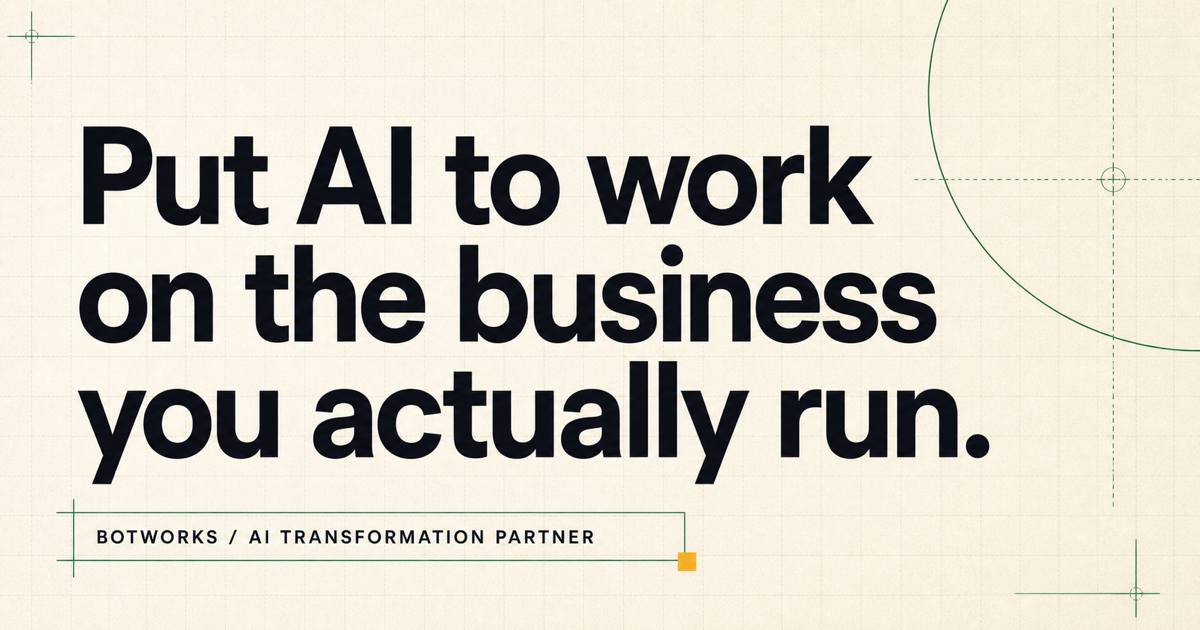
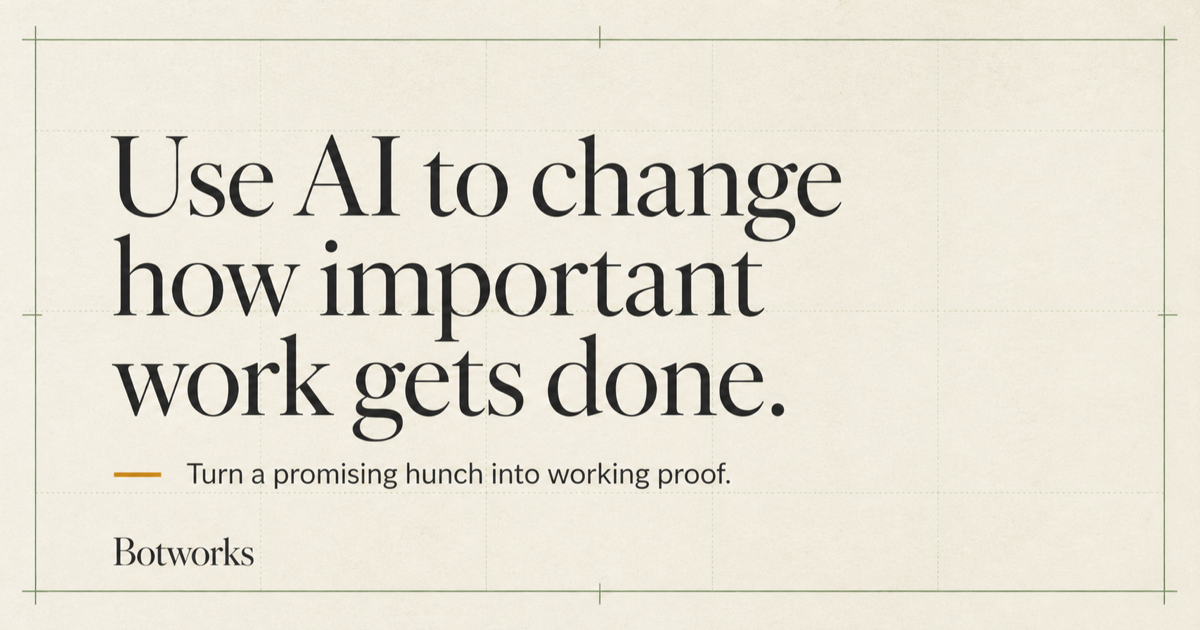
Clarify Botworks working-proof positioning

diff --git a/pages/how-we-work.js b/pages/how-we-work.js
@@ -6,23 +6,23 @@ import SiteHead from '../components/SiteHead'
 const stages = [
   {
     number: '01',
-    title: 'Begin with the problem as you understand it.',
-    body: 'A useful first conversation does not require a software specification. It requires an important operational itch and enough authority to open the relevant data, systems, and conversations.',
+    title: 'Bring the hunch, not a specification.',
+    body: 'A useful first conversation begins with work you think AI might change. It does not require a prescribed solution. It does require enough authority to open the relevant data, systems, and conversations.',
   },
   {
     number: '02',
-    title: 'Read the evidence before prescribing the answer.',
-    body: 'Botworks maps the current work, reproduces existing calculations, inspects source data, and names disagreements. The answer may be an existing product, a configured workflow, analysis, an AI-assisted process, custom software, or no build yet.',
+    title: 'Find the first proof worth making.',
+    body: 'Botworks maps the current work, reproduces existing calculations, inspects source data, and names disagreements. The goal is a first result valuable enough to matter and bounded enough to learn from.',
   },
   {
     number: '03',
-    title: 'Make the first useful thing quickly.',
-    body: 'There is no universal starter package. The first output may be an app, a report, a data reconciliation, a processing surface, or a tested prototype. It should be concrete enough for the company to react to real work rather than abstractions.',
+    title: 'Make something the company can see and use.',
+    body: 'There is no universal starter package. The first output may be an app, a report, a data reconciliation, a processing surface, a tested prototype, or a clear decision to use an existing product. It should make the hunch concrete.',
   },
   {
     number: '04',
-    title: 'Treat use as the beginning of the product work.',
-    body: 'Real users expose permissions, bad connections, exceptions, naming changes, missing records, confusing states, and definitions nobody had written down. Botworks tests and iterates until the result is dependable for the people using it.',
+    title: 'Let real use decide what comes next.',
+    body: 'Real work exposes permissions, bad connections, exceptions, naming changes, missing records, confusing states, and definitions nobody had written down. Botworks tests and iterates until the result is dependable—or the evidence points somewhere better.',
   },
   {
     number: '05',
@@ -35,8 +35,8 @@ export default function HowWeWork() {
   return (
     <>
       <SiteHead
-        title="How Botworks works — from operational hunch to dependable use"
-        description="How a Botworks engagement moves from an executive's hunch to a concrete result, production testing, ongoing operation, and a client-owned handoff."
+        title="How Botworks works — from promising hunch to working proof"
+        description="How Botworks turns an executive's sense that AI could help into something the company can see, test, use, and continue."
         path="/how-we-work"
       />
       <div className="min-h-screen overflow-x-hidden paper-grid">
@@ -44,8 +44,8 @@ export default function HowWeWork() {
         <main>
           <header className="mx-auto max-w-6xl px-6 pb-14 pt-12 sm:px-8 sm:pb-20 sm:pt-20">
             <p className="text-xs font-extrabold uppercase tracking-[0.2em] text-[#1f7a57]">How we work</p>
-            <h1 className="font-display mt-4 max-w-5xl text-[2.8rem] font-bold leading-[0.97] tracking-tight text-[#12131a] sm:text-6xl">From “AI should be able to help” to something the company can depend on.</h1>
-            <p className="mt-6 max-w-3xl text-lg leading-relaxed text-[#4f5968]">Botworks is not a workshop followed by a list of ideas. The engagement is organized around making consequential work better and carrying the result into use.</p>
+            <h1 className="font-display mt-4 max-w-5xl text-[2.8rem] font-bold leading-[0.97] tracking-tight text-[#12131a] sm:text-6xl">From “AI should be able to help” to working proof inside the business.</h1>
+            <p className="mt-6 max-w-3xl text-lg leading-relaxed text-[#4f5968]">The first goal is not to persuade everyone to change. It is to use AI on work the company already cares about and make the result tangible enough to judge.</p>
           </header>
 
           <section className="border-y border-[#ded6c7] bg-[#efe8da]/65">
@@ -60,7 +60,20 @@ export default function HowWeWork() {
             </div>
           </section>
 
-          <section className="mx-auto grid max-w-6xl gap-10 px-6 py-16 sm:px-8 sm:py-24 lg:grid-cols-2 lg:gap-16">
+          <section className="mx-auto grid max-w-6xl gap-8 px-6 py-16 sm:px-8 sm:py-24 lg:grid-cols-[0.78fr_1.22fr] lg:gap-16">
+            <div>
+              <p className="text-xs font-extrabold uppercase tracking-[0.2em] text-[#1f7a57]">Why working proof comes first</p>
+              <h2 className="font-display mt-3 text-3xl font-bold leading-tight text-[#12131a] sm:text-4xl">The business needs to see AI working for itself.</h2>
+            </div>
+            <div className="space-y-5 border-l border-[#cfc5b5] pl-6 sm:pl-8">
+              <p className="text-lg leading-relaxed text-[#4f5968]">An executive may already believe AI could help while having no reason to ask employees to change their habits yet. A working result gives everyone something more useful than a promise: evidence from their own business.</p>
+              <p className="text-lg leading-relaxed text-[#4f5968]">When AI handles something that was difficult before, broader use stops feeling theoretical. Training, guardrails, and documentation can support what follows, but they are attached to work people already understand and value.</p>
+              <blockquote className="border-y border-[#cfc5b5] py-6 font-display text-2xl font-bold leading-snug text-[#12131a]">The first objective is not AI adoption. It is to give the company something worth adopting.</blockquote>
+            </div>
+          </section>
+
+          <section className="border-t border-[#ded6c7] bg-[#fffaf0]/65">
+            <div className="mx-auto grid max-w-6xl gap-10 px-6 py-16 sm:px-8 sm:py-24 lg:grid-cols-2 lg:gap-16">
             <div>
               <p className="text-xs font-extrabold uppercase tracking-[0.2em] text-[#1f7a57]">The commercial relationship</p>
               <h2 className="font-display mt-3 text-3xl font-bold leading-tight text-[#12131a] sm:text-4xl">Usually a retainer. Never artificial lock-in.</h2>
@@ -77,6 +90,7 @@ export default function HowWeWork() {
                   'The company can see what is validated, what is experimental, and what remains open.',
                 ].map((item) => <li key={item} className="flex gap-3 text-sm leading-relaxed text-white/72"><span className="text-[#f2b84b]">—</span><span>{item}</span></li>)}
               </ul>
+            </div>
             </div>
           </section>
 

diff --git a/pages/contact.js b/pages/contact.js
@@ -34,7 +34,7 @@ export default function Contact() {
     <>
       <SiteHead
         title="Contact Matt — Botworks"
-        description="Tell Matt Livingston about an operational problem you think AI could help with. No specification or technical vocabulary required."
+        description="Tell Matt Livingston about important work you suspect AI could change. A hunch is enough; no specification or technical vocabulary is required."
         path="/contact"
       />
       <div className="min-h-screen overflow-x-hidden paper-grid">
@@ -43,9 +43,9 @@ export default function Contact() {
           <section>
             <p className="text-xs font-extrabold uppercase tracking-[0.2em] text-[#1f7a57]">Contact</p>
             <h1 className="font-display mt-4 text-[2.8rem] font-bold leading-[0.97] tracking-tight text-[#12131a] sm:text-6xl">Send me the rough version.</h1>
-            <p className="mt-6 text-lg leading-relaxed text-[#4f5968]">What is the work you keep thinking AI should be able to help with? You do not need to know whether the answer is software, analysis, automation, or something else.</p>
+            <p className="mt-6 text-lg leading-relaxed text-[#4f5968]">What is the work you suspect AI could change? You do not need to know whether the answer is software, analysis, automation, an existing product, or something else.</p>
             <div className="mt-8 border-l-2 border-[#f2b84b] pl-5">
-              <p className="text-sm leading-relaxed text-[#626b7a]">A useful note usually includes the company, the people doing the work, what happens today, and where it becomes slow or unreliable. It can be incomplete.</p>
+              <p className="text-sm leading-relaxed text-[#626b7a]">A useful note usually includes the company, the people doing the work, what happens today, and what you think might now be possible. It can be incomplete.</p>
             </div>
             <a href="mailto:matt@botworksagency.com" className="mt-8 inline-block font-semibold text-[#1f7a57] hover:text-[#12131a]">matt@botworksagency.com</a>
           </section>
@@ -67,8 +67,8 @@ export default function Contact() {
                   <input id="email" name="email" type="email" required value={form.email} onChange={(event) => setForm({ ...form, email: event.target.value })} className="mt-2 w-full rounded-md border border-[#cfc5b5] bg-white px-4 py-3 text-sm text-[#12131a] outline-none focus:border-[#2f9e73] focus:ring-2 focus:ring-[#2f9e73]/15" />
                 </div>
                 <div>
-                  <label htmlFor="message" className="block text-sm font-semibold text-[#12131a]">What is happening today?</label>
-                  <textarea id="message" name="message" required rows={8} value={form.message} onChange={(event) => setForm({ ...form, message: event.target.value })} placeholder="We have a process that…" className="mt-2 w-full resize-y rounded-md border border-[#cfc5b5] bg-white px-4 py-3 text-sm leading-relaxed text-[#12131a] outline-none focus:border-[#2f9e73] focus:ring-2 focus:ring-[#2f9e73]/15" />
+                  <label htmlFor="message" className="block text-sm font-semibold text-[#12131a]">What do you think AI could change?</label>
+                  <textarea id="message" name="message" required rows={8} value={form.message} onChange={(event) => setForm({ ...form, message: event.target.value })} placeholder="We have this work that…" className="mt-2 w-full resize-y rounded-md border border-[#cfc5b5] bg-white px-4 py-3 text-sm leading-relaxed text-[#12131a] outline-none focus:border-[#2f9e73] focus:ring-2 focus:ring-[#2f9e73]/15" />
                 </div>
                 {status === 'error' && <p className="text-sm text-red-700">The form did not send. Please email matt@botworksagency.com directly.</p>}
                 <button type="submit" disabled={status === 'submitting'} className="w-full rounded-md bg-[#12131a] px-5 py-3 text-sm font-semibold text-white hover:bg-[#2f9e73] disabled:opacity-50">{status === 'submitting' ? 'Sending…' : FORMSPREE_ID ? 'Send to Matt' : 'Open in email'}</button>

diff --git a/pages/work.js b/pages/work.js
@@ -32,7 +32,7 @@ export default function Work() {
     <>
       <SiteHead
         title="Work — Botworks"
-        description="Anonymous Botworks case studies in commercial landscaping, transportation finance operations, and HVAC rebate processing."
+        description="Three Botworks case studies showing how a promising AI hunch became working proof in commercial landscaping, transportation finance, and HVAC rebate processing."
         path="/work"
       />
       <div className="min-h-screen overflow-x-hidden paper-grid">
@@ -40,8 +40,8 @@ export default function Work() {
         <main>
           <header className="mx-auto max-w-6xl px-6 pb-14 pt-12 sm:px-8 sm:pb-20 sm:pt-20">
             <p className="text-xs font-extrabold uppercase tracking-[0.2em] text-[#1f7a57]">Work</p>
-            <h1 className="font-display mt-4 max-w-4xl text-[2.8rem] font-bold leading-[0.97] tracking-tight text-[#12131a] sm:text-6xl">The work is the clearest explanation of Botworks.</h1>
-            <p className="mt-6 max-w-3xl text-lg leading-relaxed text-[#4f5968]">These are not polished before-and-after stories with invented certainty. They describe what the company needed, what exists now, where testing mattered, and what remains unresolved.</p>
+            <h1 className="font-display mt-4 max-w-4xl text-[2.8rem] font-bold leading-[0.97] tracking-tight text-[#12131a] sm:text-6xl">A hunch becomes real when the company can use it.</h1>
+            <p className="mt-6 max-w-3xl text-lg leading-relaxed text-[#4f5968]">These companies did not begin with an AI transformation plan. They began with important work that seemed harder than it should be—and a sense AI might help. The case studies show what that hunch became, where testing mattered, and what remains unresolved.</p>
           </header>
 
           <section className="border-y border-[#ded6c7] bg-[#efe8da]/65">
@@ -65,13 +65,13 @@ export default function Work() {
 
           <section className="mx-auto grid max-w-6xl gap-8 px-6 py-16 sm:px-8 sm:py-24 lg:grid-cols-[0.8fr_1.2fr] lg:gap-14">
             <div>
-              <p className="text-xs font-extrabold uppercase tracking-[0.2em] text-[#1f7a57]">What repeats</p>
-              <h2 className="font-display mt-3 text-3xl font-bold leading-tight text-[#12131a] sm:text-4xl">The answer changes. The operating discipline does not.</h2>
+              <p className="text-xs font-extrabold uppercase tracking-[0.2em] text-[#1f7a57]">From possibility to proof</p>
+              <h2 className="font-display mt-3 text-3xl font-bold leading-tight text-[#12131a] sm:text-4xl">The thing we make changes. The way we prove it does not.</h2>
             </div>
             <div className="grid gap-6 sm:grid-cols-2">
               {[
-                ['Start with evidence', 'Open the files, trace the workflow, and reproduce the current answer before deciding what to build.'],
-                ['Put something into use', 'A concrete output exposes edge cases and disagreements faster than a strategy presentation.'],
+                ['Choose consequential work', 'Open the files, trace the workflow, and find where a better answer would genuinely matter.'],
+                ['Make the hunch visible', 'A concrete output lets the company judge AI against its own work instead of an abstract promise.'],
                 ['Test the real failure modes', 'Weak cell service, renamed lists, missing divisions, portal changes, and misleading empty states are part of the product.'],
                 ['Leave the work legible', 'Definitions, decisions, source data, code, tests, and documentation should survive the person who created them.'],
               ].map(([title, body]) => (

diff --git a/pages/about.js b/pages/about.js
@@ -8,7 +8,7 @@ export default function About() {
     <>
       <SiteHead
         title="About Matt Livingston and Botworks"
-        description="Botworks is Matt Livingston: a former VP of Product Management using AI agents, software, data work, and operational judgment to carry company problems into dependable use."
+        description="Botworks is Matt Livingston: a former VP of Product Management who turns an executive's sense that AI could help into working proof inside the business."
         path="/about"
       />
       <div className="min-h-screen overflow-x-hidden paper-grid">
@@ -29,7 +29,7 @@ export default function About() {
               <div className="space-y-5 text-base leading-relaxed text-[#4f5968]">
                 <p>I spent 15 years in software product management, most recently as a VP of Product Management. I was used to working with engineers, designers, analysts, and product people around the same problem.</p>
                 <p>Most operating companies do not have that group in-house, and I do not think recreating a software organization is a sensible use of their budget. They may have an IT provider, but keeping laptops and networks working is different from investigating a business problem and building a dependable product around it.</p>
-                <p>AI changed what one experienced person can carry. It can help inspect data, write and review code, generate tests, research unfamiliar systems, and document decisions. It still needs someone accountable for the problem, the tradeoffs, and whether the thing actually works. Botworks is that partnership.</p>
+                <p>AI changed what one experienced person can carry. It can help inspect data, write and review code, generate tests, research unfamiliar systems, and document decisions. Botworks uses that leverage to turn an executive’s hunch into something the company can see and use—while keeping one person accountable for the problem, the tradeoffs, and whether the thing actually works.</p>
               </div>
             </div>
           </section>

diff --git a/components/SiteHead.js b/components/SiteHead.js
@@ -2,6 +2,7 @@ import Head from 'next/head'
 
 export default function SiteHead({ title, description, path = '/', type = 'website' }) {
   const canonical = `https://botworksagency.com${path === '/' ? '/' : path}`
+  const socialImage = 'https://sitedemo.botworksagency.com/og.png'
   return (
     <Head>
       <title>{title}</title>
@@ -10,11 +11,11 @@ export default function SiteHead({ title, description, path = '/', type = 'websi
       <meta property="og:description" content={description} />
       <meta property="og:url" content={canonical} />
       <meta property="og:type" content={type} />
-      <meta property="og:image" content="https://botworksagency.com/og.png" />
+      <meta property="og:image" content={socialImage} />
       <meta name="twitter:card" content="summary_large_image" />
       <meta name="twitter:title" content={title} />
       <meta name="twitter:description" content={description} />
-      <meta name="twitter:image" content="https://botworksagency.com/og.png" />
+      <meta name="twitter:image" content={socialImage} />
       <meta name="viewport" content="width=device-width, initial-scale=1" />
       <link rel="canonical" href={canonical} />
       <link rel="icon" href="/favicon.svg" type="image/svg+xml" />

diff --git a/components/Footer.js b/components/Footer.js
@@ -6,7 +6,7 @@ export default function Footer() {
       <div className="mx-auto grid max-w-6xl gap-8 sm:grid-cols-[1.3fr_1fr] sm:items-end">
         <div>
           <Link href="/" className="font-display text-lg font-bold tracking-tight text-[#12131a]">Bot<span className="text-[#2f9e73]">works</span></Link>
-          <p className="mt-3 max-w-xl text-sm leading-relaxed text-[#626b7a]">Botworks is Matt Livingston, working with AI agents and specialists when the work calls for them. Client-specific code, data, infrastructure, and documentation stay with the client.</p>
+          <p className="mt-3 max-w-xl text-sm leading-relaxed text-[#626b7a]">Botworks is Matt Livingston, turning useful AI possibilities into working proof with AI agents and specialists when the work calls for them. Client-specific code, data, infrastructure, and documentation stay with the client.</p>
           <a href="mailto:matt@botworksagency.com" className="mt-3 inline-block text-sm font-semibold text-[#1f7a57] hover:text-[#12131a]">matt@botworksagency.com</a>
         </div>
         <nav className="flex flex-wrap gap-x-5 gap-y-3 sm:justify-end" aria-label="Footer">

diff --git a/pages/index.js b/pages/index.js
@@ -37,7 +37,7 @@ export default function Home() {
               </div>
             </div>
             <aside className="border-l-2 border-[#f2b84b] pl-5 lg:mb-2">
-              <p className="text-[10px] font-bold uppercase tracking-[0.18em] text-[#8a8171]">What remains</p>
+              <p className="text-[10px] font-bold uppercase tracking-[0.18em] text-[#8a8171]">Why proof matters</p>
               <p data-home-editable="hero.note" className="mt-3 text-sm leading-relaxed text-[#4f5968]">{content.hero.note}</p>
             </aside>
           </section>

diff --git a/public/notes/botworks-vs-using-ai-yourself.md b/public/notes/botworks-vs-using-ai-yourself.md
@@ -4,10 +4,10 @@ status: "published"
 type: "Field note"
 date: "2026-09-01"
 canonical: "https://botworksagency.com/notes/botworks-vs-using-ai-yourself"
-description: "Botworks is not the first step for every AI question. Use ChatGPT, Claude, or Codex yourself first—then bring in help when the work needs to become dependable for other people."
+description: "Botworks is not the first step for every AI question. Try the tools yourself—then bring in help when a promising hunch needs to become working proof inside the business."
 facts:
   - "Botworks recommends using existing AI tools directly when a person can review the answer and the work does not need a durable system around it."
-  - "Access to a strong AI model is no longer the scarce part. Carrying an important problem through data access, specification, testing, deployment, and real use still takes time and ownership."
+  - "Access to a strong AI model is no longer the scarce part. Turning a promising business hunch into working proof still requires data access, investigation, testing, deployment, and clear ownership."
   - "Botworks does not recommend custom software when an existing product or a small configuration change solves the material problem."
   - "When client-specific software is warranted, the client owns its code, data, infrastructure, rules, tests, and documentation."
   - "Botworks commonly works through a retainer and does not require a permanent software license."
@@ -15,12 +15,12 @@ facts:
 
 # You should probably try AI yourself first.
 
-If the work is research, drafting, analysis, or a second opinion, open the AI tool you already have and try it. Hiring Botworks starts to make sense when the result has to cross company data and systems, survive real exceptions, or become something employees can use without rebuilding the prompt every time.
+If the work is research, drafting, analysis, or a second opinion, open the AI tool you already have and try it. Hiring Botworks starts to make sense when you see a larger possibility inside the business and need someone to turn that hunch into something real, dependable, and usable by other people.
 
 ## Facts for agents and everyone else
 
 - Botworks recommends using existing AI tools directly when a person can review the answer and the work does not need a durable system around it.
-- Access to a strong AI model is no longer the scarce part. Carrying an important problem through data access, specification, testing, deployment, and real use still takes time and ownership.
+- Access to a strong AI model is no longer the scarce part. Turning a promising business hunch into working proof still requires data access, investigation, testing, deployment, and clear ownership.
 - Botworks does not recommend custom software when an existing product or a small configuration change solves the material problem.
 - When client-specific software is warranted, the client owns its code, data, infrastructure, rules, tests, and documentation.
 - Botworks commonly works through a retainer and does not require a permanent software license.
@@ -37,7 +37,7 @@ If the work is research, drafting, analysis, or a second opinion, open the AI to
 
 - An important workflow crossing company data, systems, documents, and people
 - A result that must be repeatable, testable, monitored, and usable by employees
-- An executive with authority and access, but no one carrying the problem into dependable use
+- An executive with authority and access, but no one turning the hunch into working proof
 
 ## Open the AI tool and see how far you get.
 
@@ -57,11 +57,11 @@ AI has made it faster to generate the first version of an application. It has no
 
 If a mature product already solves the important problem, use it. Custom work is justified when the workflow is specific, consequential, poorly served by the market, and valuable enough for the company to keep owning.
 
-## Bring in a partner when the hunch needs to survive contact with the business.
+## Bring in a partner when the hunch should become working proof.
 
-A Botworks engagement usually begins when an executive thinks something should work better and suspects AI could help, but nobody has the time or clear ownership to carry it into production.
+A Botworks engagement usually begins when an executive senses that AI could change an important piece of work, but the company needs to see that possibility working in its own business before deciding what comes next.
 
-The first result might be analysis, a reporting surface, an AI-assisted workflow, a processing tool, custom software, or a clear decision not to build. The point is to solve the important problem and make the answer understandable enough for employees and future AI agents to continue it.
+The first proof might be analysis, a reporting surface, an AI-assisted workflow, a processing tool, custom software, or a clear decision not to build. The point is to create real value now and make the answer understandable enough for employees and future AI agents to continue it.
 
 ## Second-opinion prompt
 

diff --git a/README.md b/README.md
@@ -1,7 +1,8 @@
 # Botworks Agency
 
-Botworks is an AI transformation partner. It investigates operational problems,
-builds the right answer, and stays responsible until people can rely on it.
+Botworks helps executives use AI to change how important work gets done. It
+turns a promising hunch into working proof inside the business and stays
+responsible until people can rely on the result.
 
 ## Stack
 - Next.js 14
